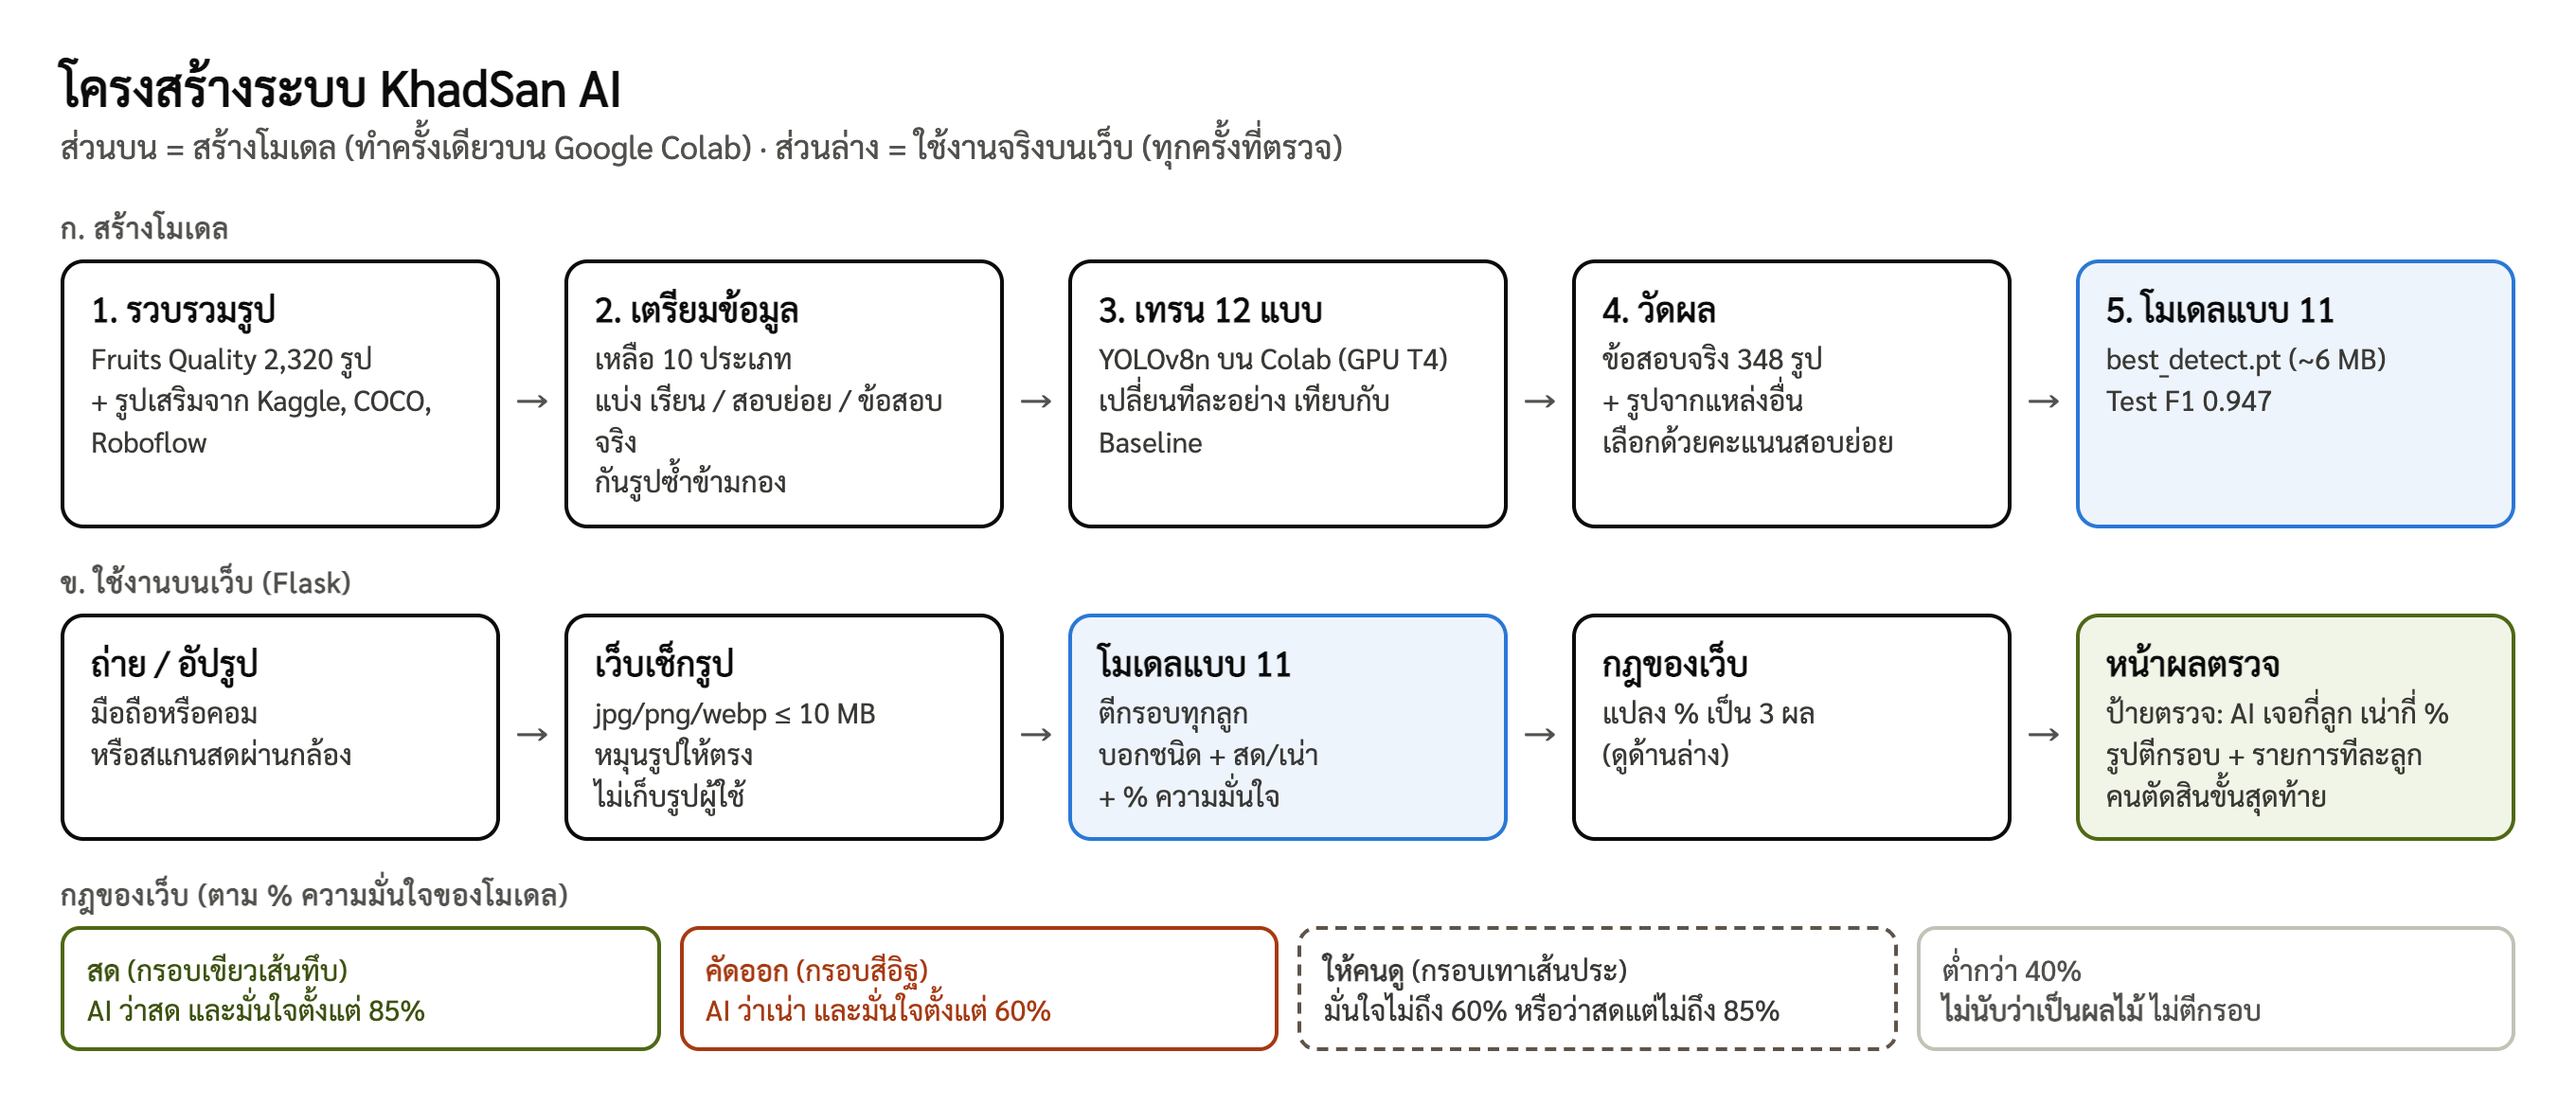
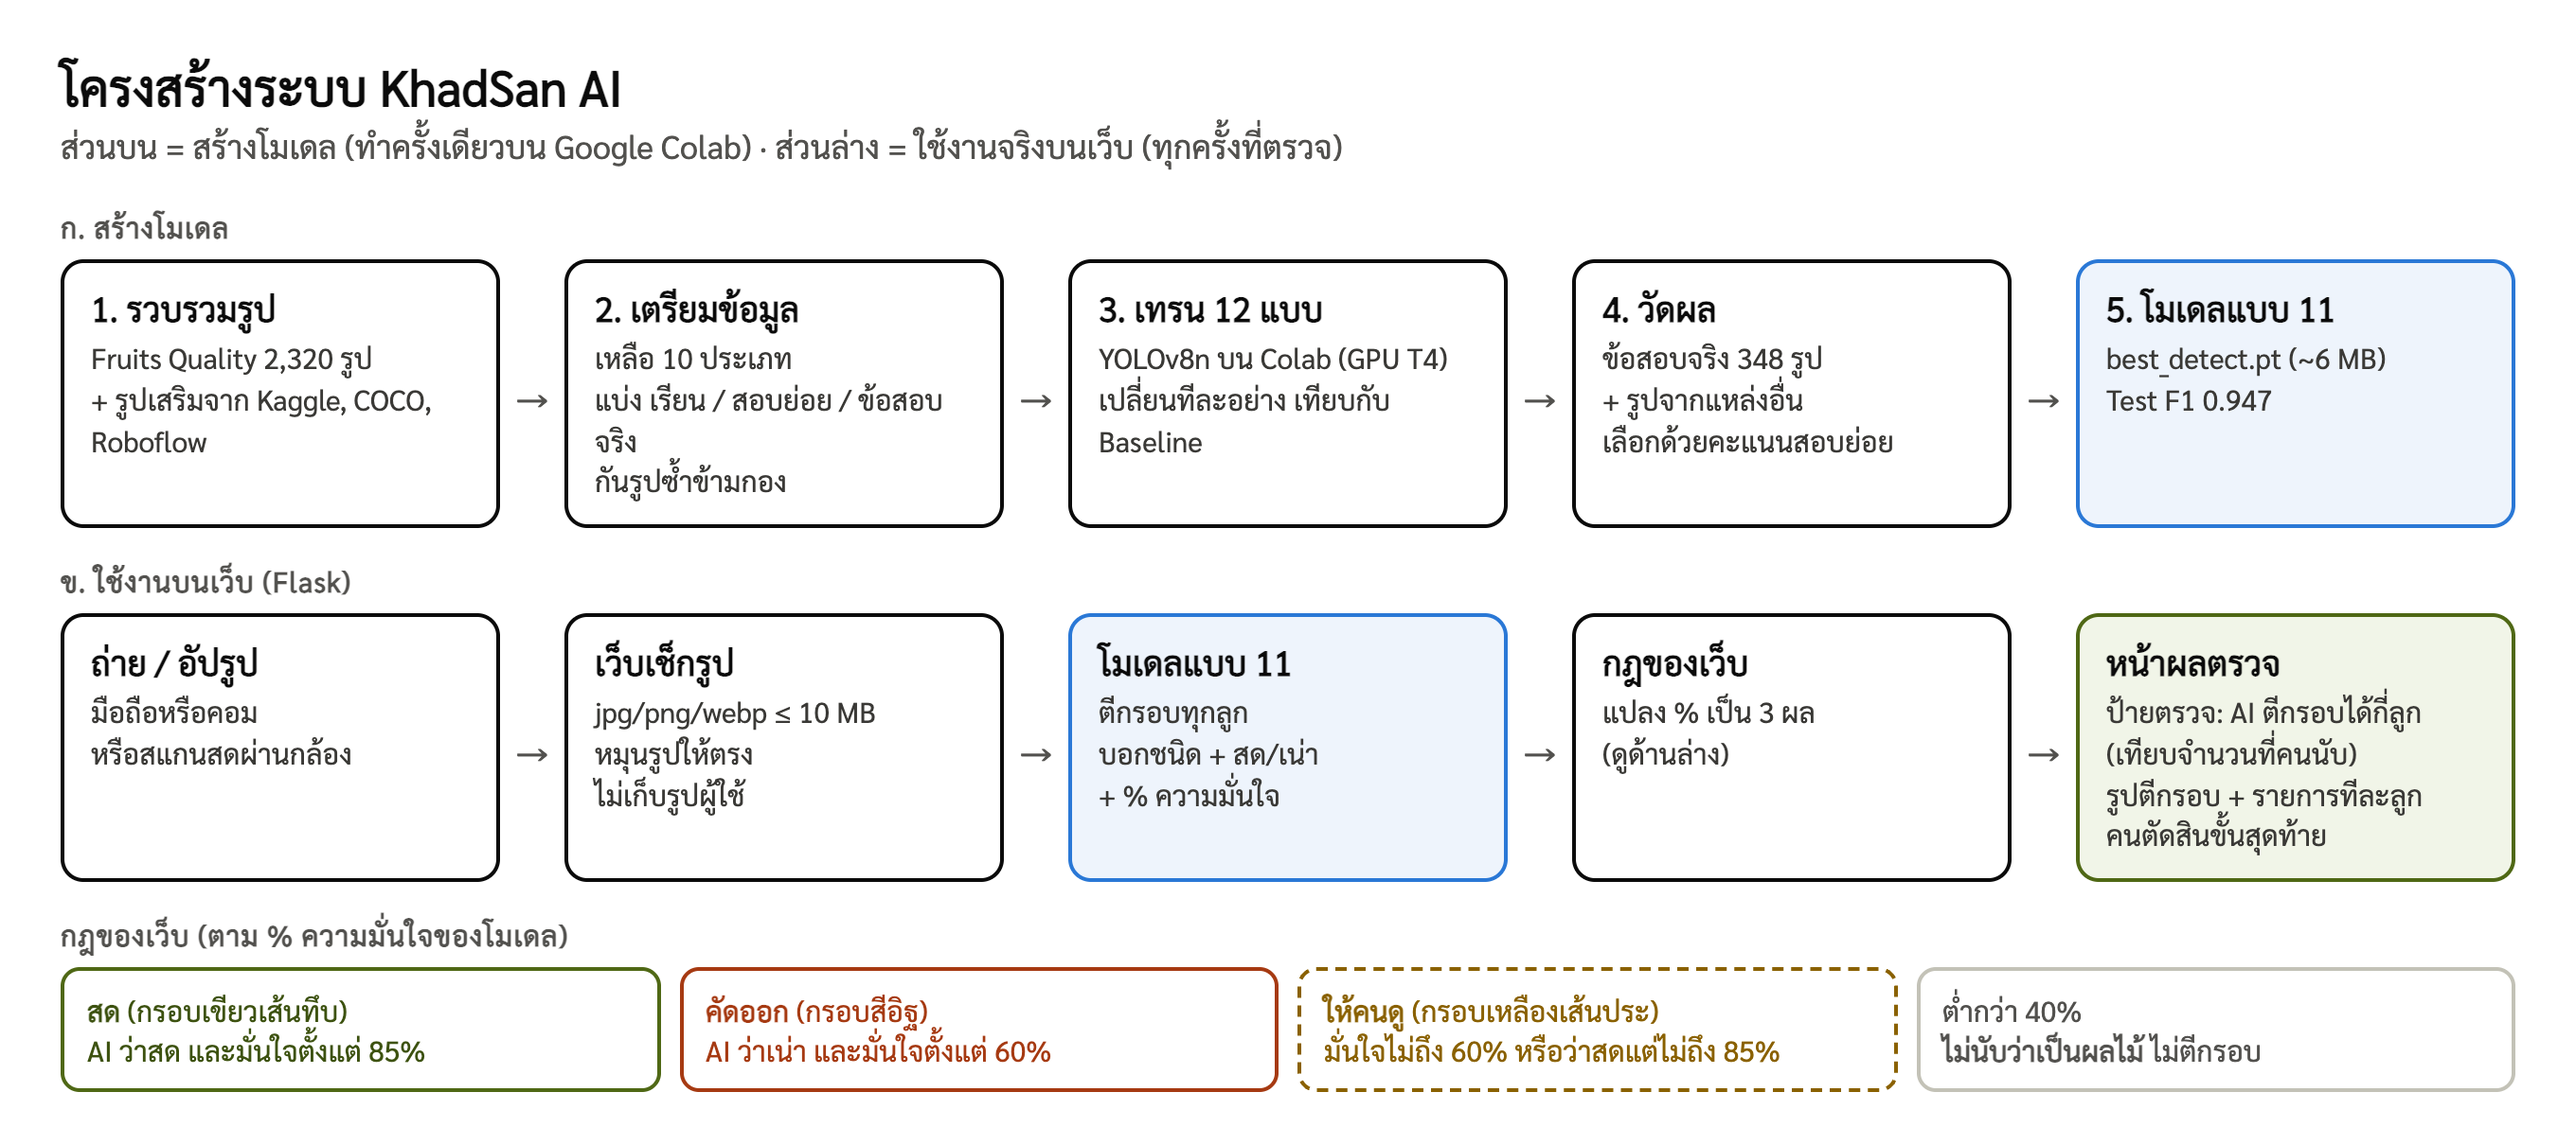
อัปเดต README docs และรูปในรายงาน

diff --git a/README.md b/README.md
@@ -10,7 +10,7 @@
 
 **ปัญหาที่อยากแก้:** ผู้ประกอบการคัดบรรจุผลไม้ขนาดเล็ก (กลุ่มเกษตรกร วิสาหกิจชุมชน โรงคัดบรรจุ) ยังใช้คนหยิบดูทีละลูก
 ปัญหาไม่ได้อยู่ที่ดูไม่ออก แต่อยู่ที่ไม่รู้ว่าแต่ละล็อตเน่ากี่ % แต่ละคนแต่ละรอบคัดไม่เท่ากัน และไม่มีหลักฐานไว้ต่อรองกับผู้ส่งหรือผู้ซื้อ
-ระบบนี้ตรวจได้ทีละหลายลูกจากรูปเดียว สรุปว่าเน่ากี่ลูกกี่ % และให้คนตัดสินใจขั้นสุดท้ายเสมอ
+ระบบนี้ตรวจได้ทีละหลายลูกจากรูปเดียว สรุปว่าต้องคัดออกกี่ลูก ลูกเลขไหน และให้คนตัดสินใจขั้นสุดท้ายเสมอ
 
 
 ## ทีมและหน้าที่
@@ -36,7 +36,7 @@
 โมเดล YOLOv8n (web/models/best_detect.pt) ── ตีกรอบ + บอกคลาส เช่น Orange_Bad
       │
       ▼
-หน้าเว็บ : รูปตีกรอบ (เขียว = สด / อิฐ = คัดออก / เทาเส้นประ = ให้คนดู) + รายการทีละลูก + ป้ายตรวจคุณภาพ
+หน้าเว็บ : รูปตีกรอบ (เขียว = สด / อิฐ = คัดออก / เหลืองเส้นประ = ให้คนดู) + รายการทีละลูก + ป้ายตรวจคุณภาพ
 ```
 
 - โมเดลเป็น **YOLOv8n** (Object Detection) ของ Ultralytics ทีมเอามา fine-tune เองบน Google Colab
@@ -255,19 +255,24 @@ python app.py
 ## วิธีใช้เว็บ
 
 เอารูปเข้าเว็บได้ 3 แบบ
-- **เลือกรูปจากเครื่อง** แล้วกด **ตรวจเลย**
+- **เลือกรูปจากเครื่อง** (บนคอมลากรูปมาวาง หรือก๊อปรูปแล้วกด Ctrl+V / ⌘V ก็ได้) แล้วกด **ตรวจเลย**
 - กด **เปิดกล้อง** แล้ว**ถ่าย** แล้วกด **ตรวจเลย** แบบนี้จะได้ผลละเอียดทีละลูก
 - กด **เปิดกล้อง** แล้วเลือก **สแกนสด** เล็งกล้องค้างไว้ กรอบสด/เน่าจะขึ้นบนภาพสดเลย ได้ราว 4-5 ภาพต่อวินาทีบนโน้ตบุ๊ก (ขึ้นกับเครื่องและเน็ต) เหมาะกับดูเร็วๆ แต่ไม่มีรายการละเอียด
 
-หน้าผลตรวจจะมีรูปที่ตีกรอบทุกลูกพร้อมเลขกำกับ มีป้ายตรวจคุณภาพบอกว่า AI ตีกรอบได้กี่ลูก เน่ากี่ลูก (กี่ %) ลูกเลขไหนต้องคัดออก ลูกเลขไหนให้คนดู และสดกี่ลูก
-ในป้ายมีแถว "ลูกนอกกรอบ" บอกว่าลูกที่ไม่มีกรอบ AI ไม่ได้ตรวจ ให้คนดูเอง ถ้าไม่เจอผลไม้เลย ใต้ป้ายจะบอกวิธีถ่ายใหม่พร้อมปุ่มถ่ายใหม่
+ก่อนกดตรวจ ใส่ **"ในถาดมีกี่ลูก?"** ได้ (ไม่บังคับ) เว็บจะเทียบกับจำนวนกรอบ
+- ตีกรอบไม่ครบ : ตรา "ตรวจไม่ครบ N ลูก" และในป้ายบอกว่ากี่ลูกที่ AI ไม่ได้ตรวจ ให้คนดู
+- ตีกรอบเกิน : ตรา "กรอบเกิน N กรอบ" (อาจตีกรอบซ้อนลูกเดียวกัน)
+- ไม่ใส่ : ทำงานเหมือนเดิม ใต้ป้ายเตือนสั้นๆ ว่าลูกที่ไม่มีกรอบ AI ไม่ได้ตรวจ
+
+หน้าผลตรวจจะมีรูปที่ตีกรอบทุกลูกพร้อมเลขกำกับ มีป้ายตรวจคุณภาพบอกว่า AI ตีกรอบได้กี่ลูก (จากกี่ลูก ถ้าใส่จำนวนไว้) ลูกเลขไหนต้องคัดออก ลูกเลขไหนให้คนดู และสดกี่ลูก
+ถ้าไม่เจอผลไม้เลย ใต้ป้ายจะบอกวิธีถ่ายใหม่พร้อมปุ่มถ่ายใหม่
 ข้างล่างเป็นรายการทีละลูก บอกชนิด สถานะ และ % ความมั่นใจ ลูกเน่าขึ้นก่อน (แสดงไม่เกิน 30 ลูก)
 เลขกำกับเรียงทีละแถว บนลงล่าง ซ้ายไปขวา เหมือนอ่านหนังสือ
 
 แต่ละลูกได้ 1 ใน 3 ผล ตัดสินจากความมั่นใจของโมเดล (ค่าพวกนี้ตั้งไว้ใน `web/app.py`)
 - **สด** : ทายว่าสด และมั่นใจตั้งแต่ 85% (`HIGH_CONF`) กรอบเขียวเส้นทึบ
 - **คัดออก** : ทายว่าเน่า และมั่นใจตั้งแต่ 60% (`LOW_CONF`) กรอบสีอิฐ คัดออกไว้ก่อน ดีกว่าปล่อยลูกเน่าหลุด
-- **ให้คนดู** : มั่นใจไม่ถึง 60% หรือทายว่าสดแต่มั่นใจไม่ถึง 85% กรอบเทาเส้นประ เพราะลูกที่บอกว่าสดแต่จริงๆ เน่า คือลูกที่จะหลุดไปถึงลูกค้า
+- **ให้คนดู** : มั่นใจไม่ถึง 60% หรือทายว่าสดแต่มั่นใจไม่ถึง 85% กรอบเหลืองเส้นประ เพราะลูกที่บอกว่าสดแต่จริงๆ เน่า คือลูกที่จะหลุดไปถึงลูกค้า
 - ต่ำกว่า 40% ไม่นับว่าเจอผลไม้ ไม่ตีกรอบ (`CONF_MIN`)
 
 ลูกสดใช้ป้ายเลขพื้นขาว ลูกอื่นใช้ป้ายเลขพื้นทึบ และลูกที่ให้คนดูใช้กรอบเส้นประ คนที่แยกสีไม่ออกก็ยังดูออก

diff --git a/docs/run-web.md b/docs/run-web.md
@@ -98,8 +98,11 @@ python app.py
 |---|---|
 | เลือกรูปผลไม้ 1 ลูก แล้วกด "ตรวจเลย" | ขั้นตอน 1-2-3 ติ๊กทีละขั้น แล้วขึ้นป้ายตรวจ รูปมีกรอบ และรายการทีละลูก |
 | รูปที่มีหลายลูก มีทั้งสดและเน่า | ตรา "คัดออก N ลูก" สีอิฐ เลขลูกเน่าขึ้นในแถว "คัดออก" ขั้นที่ 3 ขึ้น "ต้องคัดออก" |
-| รูปที่มีลูกที่ AI ไม่มั่นใจ (เช่น กองมะนาว) | ตรา "ให้คนดู N ลูก" กรอบเทาเส้นประ ใต้ป้ายมีคำเตือนว่าลูกที่ไม่มีกรอบ AI ไม่ได้ตรวจ |
-| รูปที่ไม่มีผลไม้ (เช่นรูปโต๊ะ รูปคน) | ตรา "ไม่พบผลไม้" และมีคำแนะนำให้ถ่ายใหม่ |
+| รูปที่มีลูกที่ AI ไม่มั่นใจ (เช่น กองมะนาว) | ตรา "ให้คนดู N ลูก" กรอบเหลืองเส้นประ ใต้ป้ายมีคำเตือนว่าลูกที่ไม่มีกรอบ AI ไม่ได้ตรวจ |
+| ใส่ "ในถาดมีกี่ลูก?" มากกว่าที่ AI ตีกรอบได้ | ตรา "ตรวจไม่ครบ N ลูก" ขั้นที่ 2 ขึ้น ! ในป้ายมีแถว "ไม่มีกรอบ" |
+| ใส่ "ในถาดมีกี่ลูก?" น้อยกว่าจำนวนกรอบ | ตรา "กรอบเกิน N กรอบ" ขั้นที่ 2 ขึ้น ! |
+| บนคอม ลากรูปมาวางบนช่อง "รูปผลไม้" หรือก๊อปรูปแล้วกด Ctrl+V / ⌘V | ช่องขึ้นขอบเขียวตอนลาก รูปตัวอย่างขึ้น ปุ่มตรวจเป็นสีเขียว |
+| รูปที่ไม่มีผลไม้ (เช่นรูปโต๊ะ รูปคน) | ตรา "ไม่เจอผลไม้" ใต้ป้ายมีวิธีถ่ายใหม่และปุ่มถ่ายใหม่ |
 | เปลี่ยนนามสกุลไฟล์ .txt เป็น .jpg แล้วส่ง | กล่องสีอิฐ "เปิดรูปนี้ไม่ได้ ..." ขั้นที่ 1 ขึ้นกากบาท |
 | ไฟล์รูปใหญ่เกิน 10 MB | ขึ้นเตือนตั้งแต่ตอนเลือกรูป |
 | กด "เปิดกล้อง" แล้ว "ถ่าย" แล้ว "ตรวจรูปนี้" | ได้ผลเหมือนอัปโหลด |
